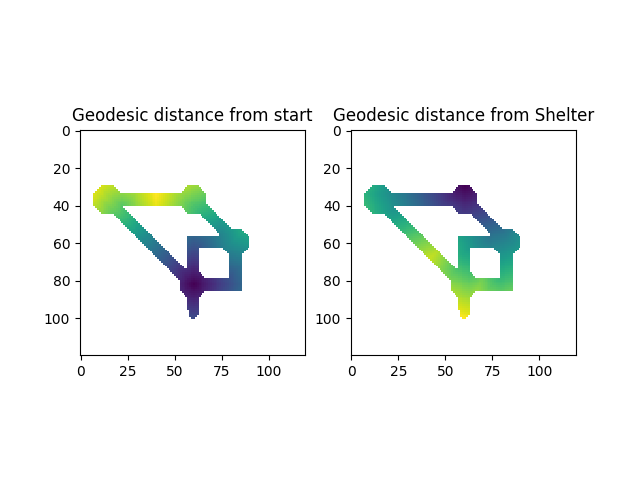
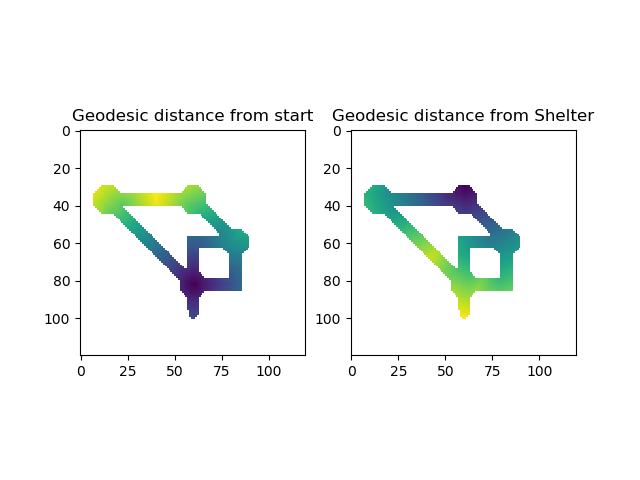
f

Changed region(s): [[0.0938, 0.2188, 0.9375, 0.25]]

diff --git a/Processing/modelling/maze_path_rl/path_agent.py b/Processing/modelling/maze_path_rl/path_agent.py
@@ -16,7 +16,7 @@ import random
 import pickle
 from scipy.special import softmax
 from mpl_toolkits.mplot3d import Axes3D
-
+from scipy.ndimage.filters import gaussian_filter
 
 
 class Model:
@@ -432,12 +432,17 @@ class Model:
 
 			# modify the geodesic landscape for the next walk
 			old_geodesic = geo_distances.copy()
-			kernel = 3
+			kernel = 9
 			for i, step in enumerate(walk):
+				if i < kernel: continue
 				if i > len(walk)/3: continue
 				x, y = step[0], step[1]
-				surroundings = geo_distances[x-kernel:x+kernel+1+i, y-kernel:y+kernel+1+i]
-				geo_distances[x-kernel:x+kernel+1+i, y-kernel:y+kernel+1+i] = surroundings + i * 3
+				surroundings = geo_distances[x-kernel:x+kernel+1, y-kernel:y+kernel+1]
+				geo_distances[x-kernel:x+kernel+1, y-kernel:y+kernel+1] = surroundings + 10
+
+			# convolve gaussian over geoesic distance representation
+			kernel = np.ones((5,5),np.float32)/25
+			dst = gaussian_filter(geo_distances, 3)
 
 			f, axarr = plt.subplots(ncols=2)
 			axarr[0].imshow(old_geodesic)
@@ -445,6 +450,9 @@ class Model:
 			axarr[0].set(title="walk_n "+str(walk_n))
 
 		plt.show()
+
+
+
 
 
 

diff --git a/Processing/modelling/maze_path_rl/path_finder.py b/Processing/modelling/maze_path_rl/path_finder.py
@@ -54,7 +54,7 @@ if __name__ == "__main__":
 		env.get_geodesic_representation()
 
 		# Train the Q-learning agent
-		print("Learning the policy")
+		print("Setting up modellingpautoma")
 		model = Model(env, FLAG_load_trained)
 		model.train()
 		model.save()
